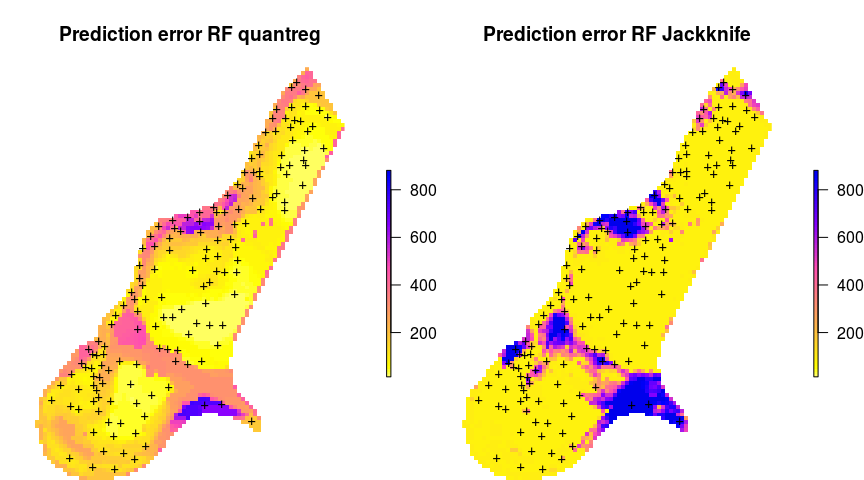
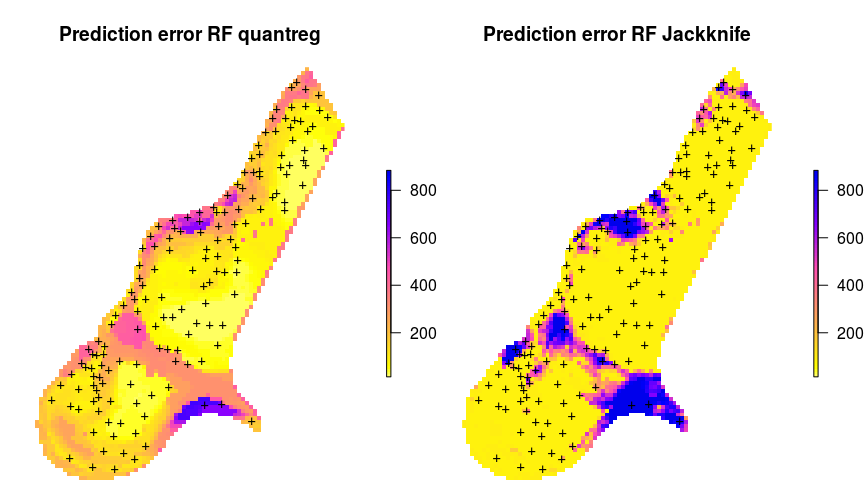
Mapping prediction uncertainty fixes in text

diff --git a/RF_uncertainty/Workshop_uncertainty.md b/RF_uncertainty/Workshop_uncertainty.md
@@ -33,7 +33,7 @@ Software (required):
 
 -   R packages: GSIF, ranger, caret, plyr, raster, ranger (see: [how to install R package](http://www.r-bloggers.com/installing-r-packages/))
 
-R script used in this tutorial you can download from the **[github](https://github.com/thengl/GeoMLA)**. As a gentle introduction to R programming languange and spatial classes in R we recommend [this tutorial](http://spatial.ly/2013/05/crash/).
+R script used in this tutorial you can download from the **[github](https://github.com/thengl/GeoMLA/tree/master/RF_vs_kriging/R)**. As a gentle introduction to R programming languange and spatial classes in R we recommend following [the Geocomputation with R book](https://geocompr.robinlovelace.net/).
 
 Quantile regression random forest and derivation of standard errors using Jackknifing is available from ranger version &gt;0.9.4. To run this tutorial it is recommended to install [ranger](https://github.com/imbs-hl/ranger) (Wright & Ziegler, 2017) directly from github:
 
@@ -84,7 +84,7 @@ Consider for example the meuse data set from the [gstat](https://github.com/edze
 demo(meuse, echo=FALSE)
 ```
 
-We can use number of covariates to help interpolating Zinc variable. We known from the literature that concentration of metals in soil is controlled by river flooding and carrying upstream sediments (it is assumed that the main source of zinc in this case is the river that occasionally floods the area), hence we can add global surface water occurrence (Pekel, Cottam, Gorelick, & Belward, 2016), the LiDAR-based digital elevation model (<http://ahn.nl>) and LDN land cover classes, as potential covariates explaining zinc concentration:
+We can use number of covariates to help interpolating Zinc variable. We known from the literature that concentration of metals in soil is controlled by river flooding and carrying upstream sediments (it is assumed that the main source of zinc in this case is the river that occasionally floods the area), hence we can add global surface water occurrence (Pekel, Cottam, Gorelick, & Belward, 2016), the LiDAR-based digital elevation model (<http://ahn.nl>) and LGN (Landelijk Grondgebruiksbestand Nederland) land cover classes, as potential covariates explaining zinc concentration:
 
 ``` r
 dir.meuse = "../RF_vs_kriging/data/meuse/"
@@ -209,7 +209,7 @@ str(pred.zinc.rfq)
     ##  $ treetype                 : chr "Regression"
     ##  $ num.independent.variables: num 171
     ##  $ num.trees                : num 500
-    ##  $ predictions              : num [1:3103, 1:3] 612 612 287 281 406 ...
+    ##  $ predictions              : num [1:3103, 1:3] 640 622 375 323 553 ...
     ##   ..- attr(*, "dimnames")=List of 2
     ##   .. ..$ : NULL
     ##   .. ..$ : chr [1:3] "quantile= 0.159" "quantile= 0.5" "quantile= 0.841"
@@ -222,7 +222,7 @@ pred.zinc.rfq$predictions[1,]
 ```
 
     ## quantile= 0.159   quantile= 0.5 quantile= 0.841 
-    ##             612            1022            1096
+    ##             640            1022            1096
 
 which shows that the prediction range is relatively wide (note also that the upper and lower prediction intervals are not necessarily symetric!). We can copy the predicted lower and upper intervals to the spatial object so we can also plot values as maps (maps of predictions can be found in this [tutorial](https://github.com/thengl/GeoMLA)):
 
@@ -241,7 +241,7 @@ Compare this numbers with the OOB RMSE and mean s.d. of prediction error:
 mean(meuse.grid$zinc_rfq_r, na.rm=TRUE); sqrt(m1.zinc$prediction.error)
 ```
 
-    ## [1] 165.3163
+    ## [1] 166.0883
 
     ## [1] 216.6955
 
@@ -266,7 +266,7 @@ str(pred.zinc.rfj)
     ##  $ num.independent.variables: num 171
     ##  $ num.samples              : int 3103
     ##  $ treetype                 : chr "Regression"
-    ##  $ se                       : num [1:3103] 13.6 13.6 13.9 12.9 12.9 ...
+    ##  $ se                       : num [1:3103] 13.5 13.5 13.8 12.8 12.8 ...
     ##  - attr(*, "class")= chr "ranger.prediction"
 
 which adds one extra column called `se` i.e. standard errors. If you compare OOB RMSE and mean s.d. of prediction error you will notice that the `se` values are significantly smaller:
@@ -275,7 +275,7 @@ which adds one extra column called `se` i.e. standard errors. If you compare OOB
 mean(pred.zinc.rfj$se, na.rm=TRUE); sqrt(m2.zinc$prediction.error)
 ```
 
-    ## [1] 33.44181
+    ## [1] 33.35022
 
     ## [1] 216.6955
 
@@ -449,8 +449,8 @@ str(swiss1km@data)
     ##  $ CHELSA_rainfall  : int  84 73 70 69 79 99 105 94 92 83 ...
     ##  $ DEM              : num  401 406 395 395 397 ...
     ##  $ border           : chr  "Switzerland" "Switzerland" "Switzerland" "Switzerland" ...
-    ##  $ rainfall_rfd1    : num  127 127 127 127 127 131 126 126 126 126 ...
-    ##  $ rainfall_rfd1_var: num  14.5 14.5 14.5 14.5 14.5 ...
+    ##  $ rainfall_rfd1    : num  127 127 127 127 127 127 126 126 126 126 ...
+    ##  $ rainfall_rfd1_var: num  12 12 13 12.7 11.7 ...
 
 this finally gives:
 
@@ -458,7 +458,7 @@ this finally gives:
 
 the map on the right shows that there are specific zones where the uncertainty is particulary high. This indicates that the RFsp prediction error maps are potentially more informative than the geostatistical error maps (e.g. UK variance map): it can be used to depict local areas that are significantly more heterogeneous and complex and that require, either, denser sampling networks or covariates that better represent local processes in these areas.
 
-So in summary uncertainty of predictions in RF models can be efficiently estimated using either the QRF or the Jacknifing approaches, both are available via the the ranger package (Wright & Ziegler, 2017). Prediction intervals should in average match the RMSE estimated using OOB samples or other Cross-validation approaches. Note however that both approaches are computationally intensive and could increase the prediction time at the order of magnitude times. There are additional costs to pay to derive a reliable and detailed measures of uncertainty.
+So in summary: uncertainty of predictions in RF models can be efficiently estimated using either the QRF (prediction intervals) or the Jacknifing approaches (confidence intervals), both are available via the the ranger package (Wright & Ziegler, 2017). Prediction intervals should in average match the RMSE estimated using OOB samples or other Cross-validation approaches. Note however that both approaches are computationally intensive and could increase the prediction time at the order of magnitude times. There are additional costs to pay to derive a reliable and detailed measures of uncertainty.
 
 Mapping prediction errors for factor/binomial variables:
 --------------------------------------------------------
@@ -588,7 +588,7 @@ m2.s1
     ## Variable importance mode:         none 
     ## OOB prediction error:             0.05711483
 
-which shows that the Out of Bag prediction error (classification error) is only 0.06 (in the probability scale). Note that, it is not easy to compare the results of the regression and classification OOB errors as these are conceptually different. Also note that we turn on `keep.inbag = TRUE` so that ranger can estimate the classification errors using the Jackknife-after-Bootstrap method (Wager et al., 2014). `quantreg=TRUE` obviously would not work here since it is a classification and not a regression problem.
+which shows that the Out of Bag prediction error (classification error) is only 0.06 (this number is in the probability scale). Note that, it is not easy to compare the results of the regression and classification OOB errors as these are conceptually different. Also note that we turn on `keep.inbag = TRUE` so that ranger can estimate the classification errors using the Jackknife-after-Bootstrap method (Wager et al., 2014). `quantreg=TRUE` obviously would not work here since it is a classification and not a regression problem.
 
 We next derive prediction errors for the two options:
 
@@ -620,7 +620,7 @@ meuse.grid$soil1_rfq_r = (meuse.grid$soil1_rfq_U - meuse.grid$soil1_rfq_L)/2
 mean(meuse.grid$soil1_rfq_r, na.rm=TRUE); sqrt(m1.s1$prediction.error)
 ```
 
-    ## [1] 0.1233592
+    ## [1] 0.1205723
 
     ## [1] 0.2381989
 
@@ -732,9 +732,9 @@ str(pred.grids@data)
     ##  $ pred_soil1: num  0.757 0.759 0.753 0.74 0.765 ...
     ##  $ pred_soil2: num  0.212 0.218 0.22 0.229 0.212 ...
     ##  $ pred_soil3: num  0.0307 0.0232 0.0272 0.0307 0.0232 ...
-    ##  $ se_soil1  : num  0.0999 0.1089 0.1057 0.0935 0.0714 ...
-    ##  $ se_soil2  : num  0.0805 0.0837 0.0821 0.0803 0.0677 ...
-    ##  $ se_soil3  : num  0.0349 0.0347 0.0349 0.0349 0.0347 ...
+    ##  $ se_soil1  : num  0.1 0.109 0.1058 0.0936 0.0715 ...
+    ##  $ se_soil2  : num  0.0829 0.0868 0.0849 0.0827 0.0667 ...
+    ##  $ se_soil3  : num  0.035 0.0348 0.035 0.035 0.0348 ...
 
 which gives 6 columns in total: 3 columns for predictions and 3 columns for prediction errors `se`. We can plot the three maps next to each other by using:
 
